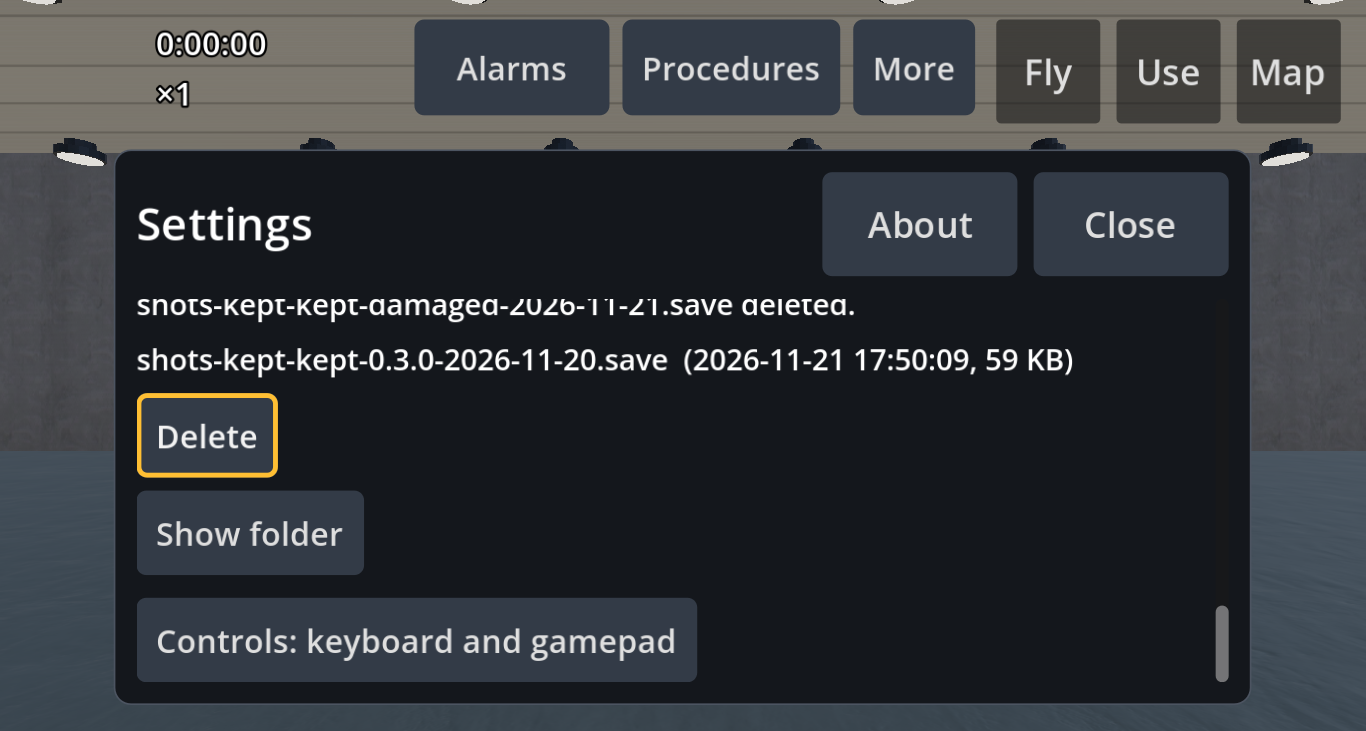
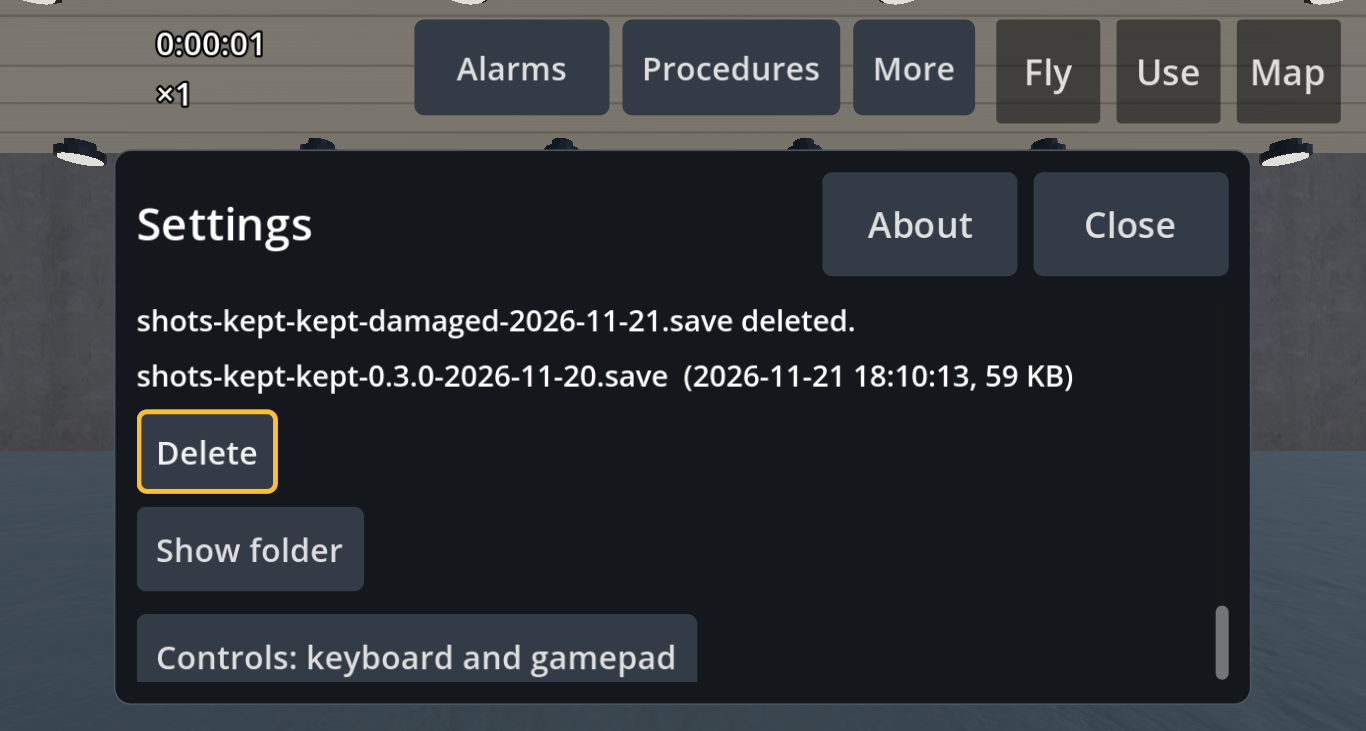
UX evidence: Saved runs kept aside, round 3

Changed region(s): [[0.0922, 0.3912, 0.7994, 0.933], [0.1845, 0.0301, 0.2152, 0.0903]]

diff --git a/MANIFEST.md b/MANIFEST.md
@@ -1,18 +1,18 @@
-# UX evidence: Saved runs kept aside (#474), round 2
+# UX evidence: Saved runs kept aside (#474), round 3
 
-Synthetic (Walkdown Plant's invented plant; the kept files hold the synthetic 0.3.0 fixture), commit ea8574d0bf5d3401311f5184b79f2fd8cabe4b8f, `apps/plant3d/tests/kept_saves_shots.gd` under offscreen.sh, the switch forced on. desk_uidefault (1600x900 window, 100 %), desk_ui2 (1366x768, UI size 200 %), phone_uidefault (2220x1080 phone layout). States: kept_list, kept_delete_asks (Keep focused, Delete for good destructive), kept_after_delete (said in the list), kept_empty.
+Synthetic, commit 1fadb5527ddf1ec9eab25d5d1888a3fb155eb09a, `apps/plant3d/tests/kept_saves_shots.gd`, the switch forced on. desk_uidefault (1600x900, 100 %), desk_ui2 (1366x768, 200 %), phone_uidefault (2220x1080 phone layout). States: kept_list, kept_delete_asks (Keep focused; Delete for good destructive with the layer's padding), kept_after_delete (said beside the focused row, in view), kept_empty.
 
 ```
-0ad3c6cf79c118d6548348c6fba68439775e25b517d72f5c2ee917aee24f423c  desk_ui2_kept_after_delete.png
-63e22f0bc1b657141c036c1d25609b9baa4c04113c624395255d4e380a05b515  desk_ui2_kept_delete_asks.png
-118588f2e94fec8d0134f2a65801282beebc8246d4602de57b7e7027fca23e79  desk_ui2_kept_empty.png
-e1763a5b276a773b1b64ecca14453130f3456d22d9f6127b974ff69643e1e384  desk_ui2_kept_list.png
-f5f2081936d9622edd28cfeee6acfc72669a979377409424db1494e81dab1e77  desk_uidefault_kept_after_delete.png
-f5693edb79a089fda5838279c7d922441e5f04e5d321931a888a76294bafac46  desk_uidefault_kept_delete_asks.png
-a7dbecedcce197883fe9d99a15adff59a28da17186be874aa93d0bb57862e21c  desk_uidefault_kept_empty.png
-02192cf577388d238ee0f7492d41509180cac090391837decf95a34b3809b99c  desk_uidefault_kept_list.png
-efcc638777d797d15b71ccd8f05285a9e23af9671b6957a7600d31eb7021d116  phone_uidefault_kept_after_delete.png
-5b05467b6b0143680bf134ed0e336c9667e0decdc9b84c12ae909705bbac371b  phone_uidefault_kept_delete_asks.png
-6439e572e7bf8aaf2d114bf59d3e41d0cba0fb840c628f735bff33474f2d69c9  phone_uidefault_kept_empty.png
-06e68f72fc9f96b0998cbe7211aec1b3d39986455499dc529cc5302d99e097e7  phone_uidefault_kept_list.png
+7b6bd65951b1ceeee0b4333797ec60cb942a71e77a01f7e865de8070bd2ca71a  desk_ui2_kept_after_delete.png
+c14586409d687c1d41124b15385a76f4f3ff0a8f953e86c2d30ead8bb63ba589  desk_ui2_kept_delete_asks.png
+9c08d6ffeba630dc6f4b7a15505e929281078fe0c9c7e059856437c32b33d530  desk_ui2_kept_empty.png
+0200a694bd62ab01d2a6f4194d826a5f36b823d802d4b5a065d728878ea48b7d  desk_ui2_kept_list.png
+b207761dfe89fe910827658bbfb80aa198ba55caff036671509f7f2b839c4e37  desk_uidefault_kept_after_delete.png
+40f15d0d1292682e3f77d35d88ebe73bc372cb7b6ad03d127e0d4dd4fbb014a7  desk_uidefault_kept_delete_asks.png
+a430c27f7938126092b6546beaa0c5d20f814597f427d0f3bad0929bfe8b4d54  desk_uidefault_kept_empty.png
+dd29587ae60430ad00ee172e1c7d621ff409c18686f4f568f5e67684948d6d6c  desk_uidefault_kept_list.png
+02f2aa4ca85c9595112e32a0beff4a2497c939dc2cb78a402f81b81ecb27c25e  phone_uidefault_kept_after_delete.png
+e4e12fbd88152dd23246d58aaba30dcb9536e595f461f342af104f11b9f0015d  phone_uidefault_kept_delete_asks.png
+05a8119e7f7f41b4ef5f91e767593b0a7229ae3ea43eff445914b9ac86ef3e90  phone_uidefault_kept_empty.png
+c8b4844c50eba8f4bdf6815cf9ad99c289e1fc1ccaf28018c3c3f27b385d1c81  phone_uidefault_kept_list.png
 ```
